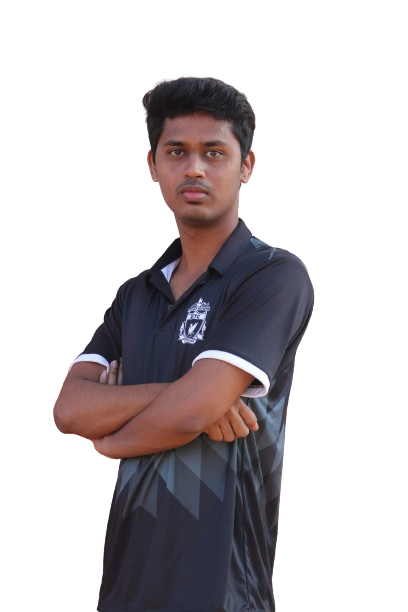
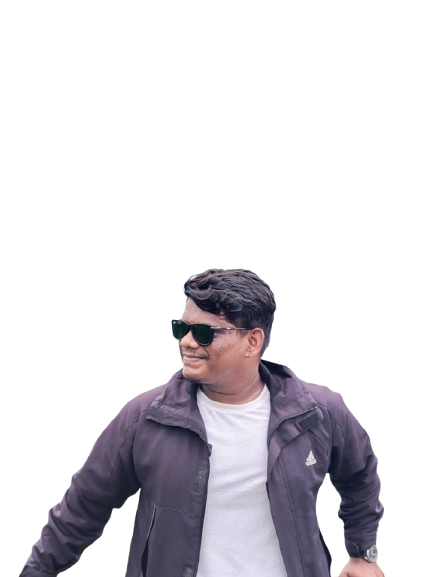
Changed to ronit

diff --git a/index.html b/index.html
@@ -15,7 +15,7 @@
   </head>
   <body>
     <nav id="desktop-nav">
-      <div class="logo">Omkar</div>
+      <div class="logo">Ronit</div>
       <div>
         <ul class="nav-links">
           <li><a href="#about">About</a></li>
@@ -26,7 +26,7 @@
       </div>
     </nav>
     <nav id="hamburger-nav">
-      <div class="logo">Omkar</div>
+      <div class="logo">Ronit</div>
       <div class="hamburger-menu">
         <div class="hamburger-icon" onclick="toggleMenu()">
           <span></span>
@@ -42,12 +42,15 @@
       </div>
     </nav>
     <section id="profile">
-      <div class="section__pic-container my-photo">
-        <img src="./assets/profile-pic.png" alt="John Doe profile picture" />
+      <div class="my-photo">
+        <img
+          src="./assets/profile-pic.jpg"
+          alt="Ronit Tambe   profile picture"
+        />
       </div>
       <div class="section__text">
         <p class="section__text__p1">Hello, I'm</p>
-        <h1 class="title">Omkar Dhawan</h1>
+        <h1 class="title">Ronit Tambe</h1>
         <p class="section__text__p2">Fullstack Developer</p>
         <div class="btn-container">
           <button
@@ -61,7 +64,10 @@
           </button>
         </div>
         <div id="socials-container">
-          <a target="_blank" href="https://www.linkedin.com/in/omkar-dhawan">
+          <a
+            target="_blank"
+            href="http://www.linkedin.com/in/ronit-tambe-781a09204/"
+          >
             <img
               src="./assets/linkedin.png"
               alt="My LinkedIn profile"
@@ -69,7 +75,7 @@
             />
           </a>
 
-          <a href="https://github.com/OMKARDHAWAN" target="_blank">
+          <a href="https://github.com/ronit1161" target="_blank">
             <img
               src="./assets/github.png"
               alt="My Github profile"
@@ -79,13 +85,14 @@
         </div>
       </div>
     </section>
+
     <section id="about">
       <p class="section__text__p1">Get To Know More</p>
       <h1 class="title">About Me</h1>
       <div class="section-container">
         <div class="section__pic-container">
           <img
-            src="./assets/about-pic.jpg"
+            src="./assets/kjsdbc.jpg"
             alt="Profile picture"
             class="about-pic"
           />
@@ -115,16 +122,15 @@
           </div>
           <div class="text-container">
             <p>
-              Myself Omkar Dhawan.Currently I am pursuing my degree in
-              Electronic and Telecommunication at Finolex Academy of Management
-              & Technology. I am a boy who has knowledge front-end as well as
-              back-end also,and ready to work as Full Stack web devloper If you
-              are looking for webdevloper / designer then,Yess you are looking
-              right portfolio. I am looking for challenging role so that i can
-              utilize my skills and capabilities through sincere dedication and
-              hard work for successful career. I am looking and excited for my
-              first work experience as full stack developer. Trying to become
-              proficient full stack developer.
+              Enthusiastic and self-motivated web developer with a solid
+              foundation in full-stack development, specializing in Next.js,
+              React, and Node.js. Skilled in creating real-time applications,
+              such as food delivery, location tracking, and expense tracker
+              apps. Proficient in building responsive, user-friendly interfaces
+              and implementing secure backend solutions. Adept at working with
+              MongoDB, Mongoose, Socket.IO, and AWS S3 for cloud integrations. A
+              fresher eager to contribute strong technical skills and a passion
+              for coding to a dynamic team.
             </p>
           </div>
         </div>
@@ -136,6 +142,7 @@
         onclick="location.href='./#experience'"
       />
     </section>
+
     <section id="experience">
       <p class="section__text__p1">Explore My</p>
       <h1 class="title">Experience</h1>
@@ -184,7 +191,7 @@
                   class="icon"
                 />
                 <div>
-                  <h3>Bootstrap</h3>
+                  <h3>React.js</h3>
                   <p>Intermediate</p>
                 </div>
               </article>
@@ -196,7 +203,18 @@
                 />
                 <div>
                   <h3>Tailwind</h3>
-                  <p>Basic</p>
+                  <p>Intermediate</p>
+                </div>
+              </article>
+              <article>
+                <img
+                  src="./assets/checkmark.png"
+                  alt="Experience icon"
+                  class="icon"
+                />
+                <div>
+                  <h3>Bootstrap</h3>
+                  <p>Intermediate</p>
                 </div>
               </article>
             </div>
@@ -211,7 +229,7 @@
                   class="icon"
                 />
                 <div>
-                  <h3>Java</h3>
+                  <h3>Node JS</h3>
                   <p>Intermediate</p>
                 </div>
               </article>
@@ -222,7 +240,7 @@
                   class="icon"
                 />
                 <div>
-                  <h3>Node JS</h3>
+                  <h3>Next JS</h3>
                   <p>Intermediate</p>
                 </div>
               </article>
@@ -255,6 +273,17 @@
                   class="icon"
                 />
                 <div>
+                  <h3>Mongoose</h3>
+                  <p>Intermediate</p>
+                </div>
+              </article>
+              <article>
+                <img
+                  src="./assets/checkmark.png"
+                  alt="Experience icon"
+                  class="icon"
+                />
+                <div>
                   <h3>Git</h3>
                   <p>Intermediate</p>
                 </div>
@@ -270,6 +299,7 @@
         onclick="location.href='./#projects'"
       />
     </section>
+
     <section id="projects">
       <p class="section__text__p1">Browse My Recent</p>
       <h1 class="title">Projects</h1>
@@ -278,17 +308,25 @@
           <div class="details-container color-container">
             <div class="article-container">
               <img
-                src="./assets/project-1.png"
+                src="./assets/food ordering.png"
                 alt="Project 1"
                 class="project-img"
               />
             </div>
-            <h2 class="experience-sub-title project-title">Art Explorer</h2>
+            <h2 class="experience-sub-title project-title">
+              Food Ordering App
+            </h2>
             <div class="btn-container">
-              <a href="https://art-explorer.netlify.app/" target="_blank">
+              <a
+                href="https://github.com/ronit1161/food-ordering"
+                target="_blank"
+              >
                 <button class="btn btn-color-2 project-btn">Github</button>
               </a>
-              <a href="https://art-explorer.netlify.app/" target="_blank">
+              <a
+                href="https://food-ordering-app-roan.vercel.app/"
+                target="_blank"
+              >
                 <button class="btn btn-color-2 project-btn">Live Demo</button>
               </a>
             </div>
@@ -296,17 +334,23 @@
           <div class="details-container color-container">
             <div class="article-container">
               <img
-                src="./assets/project-2.png"
+                src="./assets/expense tracker.png"
                 alt="Project 2"
                 class="project-img"
               />
             </div>
-            <h2 class="experience-sub-title project-title">Book your table</h2>
+            <h2 class="experience-sub-title project-title">Expense Tracker</h2>
             <div class="btn-container">
-              <a href="https://github.com/OMKARDHAWAN" target="_blank">
+              <a
+                href="https://github.com/ronit1161/expense-tracker-react"
+                target="_blank"
+              >
                 <button class="btn btn-color-2 project-btn">Github</button>
               </a>
-              <a href="https://bookyourtable.netlify.app/" target="_blank">
+              <a
+                href="https://expense-tracker-react-sage.vercel.app/"
+                target="_blank"
+              >
                 <button class="btn btn-color-2 project-btn">Live Demo</button>
               </a>
             </div>
@@ -320,6 +364,7 @@
         onclick="location.href='./#contact'"
       />
     </section>
+
     <section id="contact">
       <p class="section__text__p1">Get in Touch</p>
       <h1 class="title">Contact Me</h1>
@@ -331,9 +376,7 @@
             class="icon contact-icon email-icon"
           />
           <p>
-            <a href="mailto:dhawanomkar355@gmail.com"
-              >dhawanomkar355@gmail.com</a
-            >
+            <a href="mailto:ronittambe116@gmail.com">ronittambe116@gmail.com</a>
           </p>
         </div>
         <div class="contact-info-container">
@@ -342,7 +385,11 @@
             alt="LinkedIn icon"
             class="icon contact-icon"
           />
-          <p><a href="https://www.linkedin.com/in/omkar-dhawan">LinkedIn</a></p>
+          <p>
+            <a href="http://www.linkedin.com/in/ronit-tambe-781a09204/"
+              >LinkedIn</a
+            >
+          </p>
         </div>
       </div>
     </section>
@@ -359,21 +406,20 @@
       </nav>
 
       <div class="social">
-        <a href="https://www.facebook.com/om.dhawan.545" target="_blank"
-          ><i class="fa-brands fa-facebook"></i
-        ></a>
-        <a href="https://www.instagram.com/dhawan_omkar" target="_blank"
+        <a href="https://www.instagram.com/ronit_tambe_116/" target="_blank"
           ><i class="fa-brands fa-instagram"></i
         ></a>
-        <a href="https://www.linkedin.com/in/omkar-dhawan" target="_blank"
+        <a
+          href="http://www.linkedin.com/in/ronit-tambe-781a09204/"
+          target="_blank"
           ><i class="fa-brands fa-linkedin"></i
         ></a>
-        <a href="https://github.com/OMKARDHAWAN" target="_blank"
+        <a href="https://github.com/ronit1161" target="_blank"
           ><i class="fa-brands fa-github"></i
         ></a>
       </div>
 
-      <p>Copyright &#169; 2024 Omkar Dhawan. All Rights Reserved.</p>
+      <p>Copyright &#169; 2025 Ronit Tambe. All Rights Reserved.</p>
     </footer>
     <script src="script.js"></script>
   </body>

diff --git a/mediaqueries.css b/mediaqueries.css
@@ -13,6 +13,13 @@
 }
 
 @media screen and (max-width: 1200px) {
+  #profile {
+    height: 83vh;
+    display: flex;
+    flex-direction: column;
+    gap: 2rem;
+    align-items: center;
+  }
   #desktop-nav {
     display: none;
   }
@@ -22,10 +29,6 @@
   #experience,
   .experience-details-container {
     margin-top: 2rem;
-  }
-  #profile,
-  .section-container {
-    display: block;
   }
   .arrow {
     display: none;
@@ -54,7 +57,20 @@
   }
   #profile {
     height: 83vh;
-    margin-bottom: 0;
+    display: flex;
+    flex-direction: column;
+    gap: 2rem;
+    align-items: center;
+  }
+  #profile .my-photo {
+    display: flex;
+    justify-content: center;
+    align-items: center;
+    height: 200px;
+    width: 200px;
+  }
+  .section-container{
+    display: block;
   }
   article {
     font-size: 1rem;

diff --git a/style.css b/style.css
@@ -159,6 +159,7 @@ section {
 #profile {
   display: flex;
   flex-direction: row-reverse;
+  align-items: center;
   justify-content: center;
   gap: 5rem;
   height: 80vh;
@@ -167,11 +168,16 @@ section {
 .my-photo{
   display: flex;
   justify-content: center;
-  align-items: center;
+  align-items: center; 
+  height: 400px;
+  width: 400px;
 }
 
 .my-photo img{
   height: 100%;
+  width: 100%;
+  object-fit: cover;
+  border-radius: 50%;
 }
 
 .section__pic-container {
